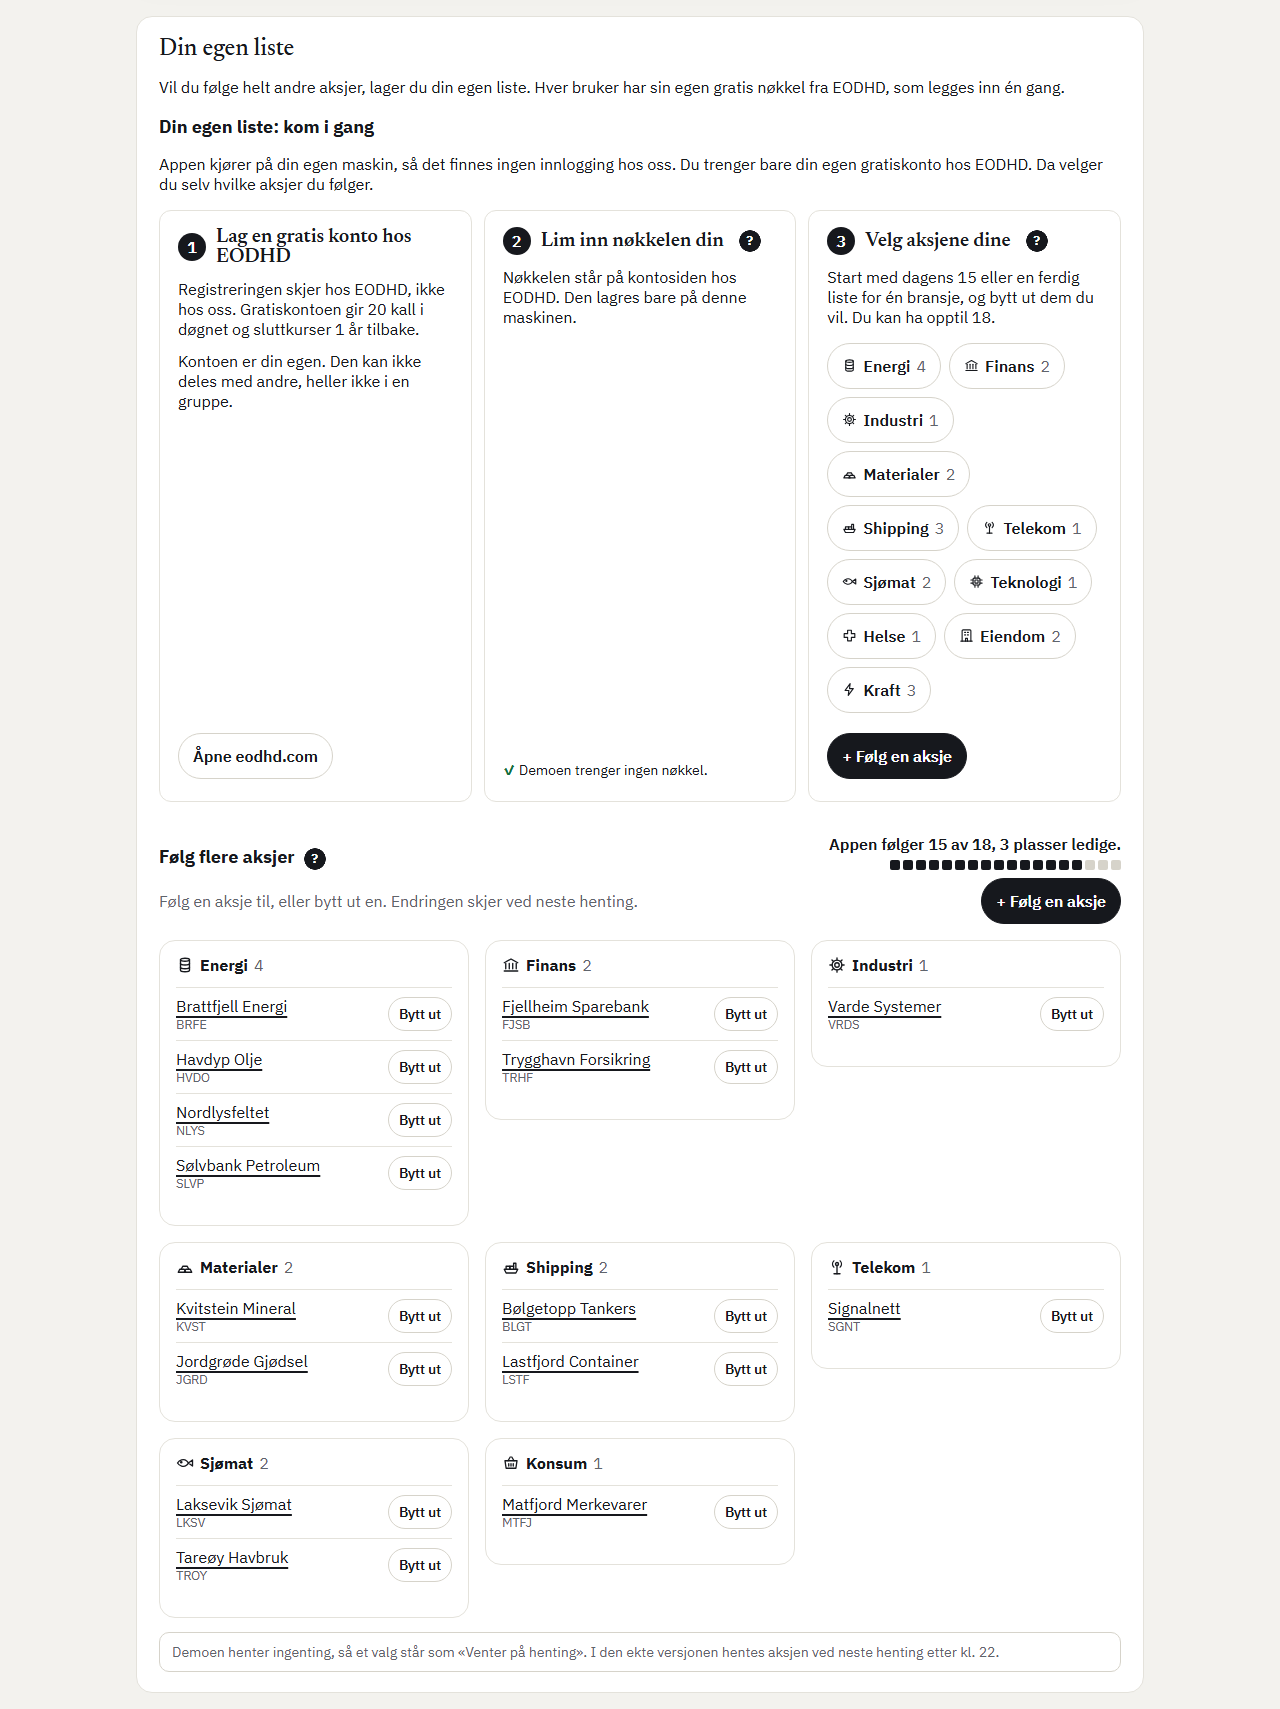
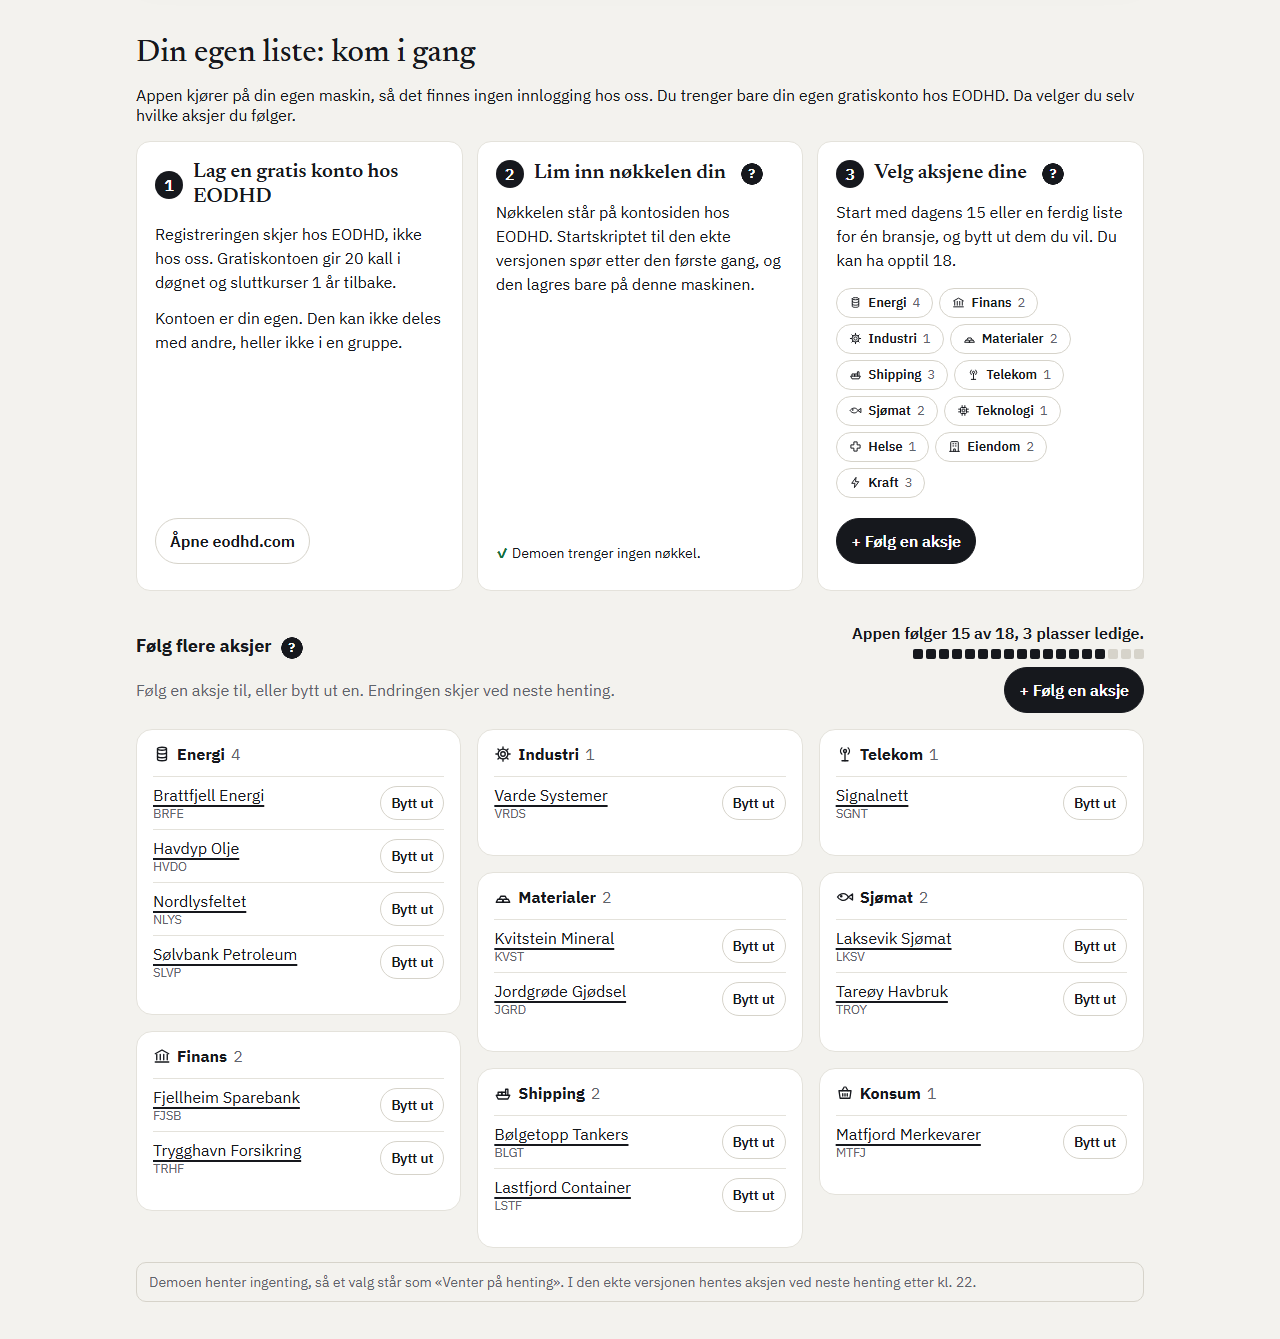
8.29: bildene av Min liste og avtrykkene tatt på nytt
min-liste-demo.png, din-egen-liste-demo.png (1709 -> 1339 px) og
notatene-min-liste-demo.png fra en demobase i en midlertidig mappe; de
andre er byte for byte de samme. Avtrykkene i test_docker.py er regnet
ut på nytt.

diff --git a/tests/test_docker.py b/tests/test_docker.py
@@ -1341,7 +1341,7 @@ HOEYDE_PAA_BILDET = 1864
 # og bildene med knappen er tatt paa nytt.
 # Gjennomgangen av «Følg en aksje» i 8.25: _ramme.html. Bildene er byte for byte de samme.
 # Story 8.26, tilleggene 5–20: avtrykkene er regnet ut paa nytt, og bildene er tatt paa nytt.
[2 lines of base64/hex data omitted]
 SLIK_TAS_BILDET = (
     "Oversikten er endret, så skjermbildet viser noe annet enn demoen. Ta "
     f"{SKJERMBILDET} på nytt etter «Bildet» i spesifikasjonen 3.3b: demobasen i en "
@@ -1794,7 +1794,7 @@ HOEYDE_PAA_AKSJESIDEN = 2258
 # Flettingen av main (3.6, del C) inn i 8.22 11.11: avtrykkene er regnet ut paa nytt.
 # Story 8.25 og flettingen av main (8.22 og 3.6) inn i 8.25: avtrykkene er regnet ut paa nytt.
 # Story 8.26, tilleggene 5–20: avtrykkene er regnet ut paa nytt, og bildene er tatt paa nytt.
[2 lines of base64/hex data omitted]
 SLIK_TAS_AKSJESIDEN = (
     "Aksjesiden er endret, så bildet av den viser noe annet enn demoen. Ta "
     f"{AKSJESIDEBILDET} på nytt med fremgangsmåten i spesifikasjonen 3.3b, mot /aksje/BRFE: "
@@ -1892,7 +1892,9 @@ DE_NYE_BILDENE = {
     # Story 8.26: 1454 -> 1474 (tabellen «Dine egne aksjer» med navnet og bransjen på to linjer).
     # Story 8.26 (tillegg 12): 1474 -> 1389, stegkortene som på tavla, med kallene bak «?».
     # Story 8.26 (tilleggene 5–20): 1389 -> 1709, «Følg flere aksjer» med kortene per bransje (tillegg 14 og 15).
-    "docs/appen/din-egen-liste-demo.png": ("/min-liste", 1280, 1709, FILENE_BAK_MIN_LISTE),
+    # Story 8.29 (svarene 13.11, tillegg 1): 1709 -> 1339, én overskrift, delen uten ramme og bransjekortene
+    # stablet i kolonner.
+    "docs/appen/din-egen-liste-demo.png": ("/min-liste", 1280, 1339, FILENE_BAK_MIN_LISTE),
     # Story 8.22: «Følg en aksje» i demoen med Kraft valgt, hele siden (1326 px), sist i knappen.
     # Flettingen av main (8.9, «Vis meg rundt») inn i 8.22: 1368. Bekreftelsen sier «Demo Børs» i
     # demoen (folg.html); bildet er byte for byte det samme.
@@ -2036,21 +2038,23 @@ DE_NYE_BILDENE = {
 # Story 10.10, svaret kl. 19:30: ki_dagen.py, ki_eksempel.py og teksten om dagen. Bildene er tatt paa nytt;
 # bare oversikten ved 390 px er ny, med samme hoeyde.
 # Story 8.26, tilleggene 5–20: avtrykkene er regnet ut paa nytt, og bildene er tatt paa nytt.
+# Story 8.29: _egne.html, eodhd_demo.html og stil.css. Bildene er tatt paa nytt; min-liste-demo.png,
+# din-egen-liste-demo.png (1339 px) og notatene-min-liste-demo.png er nye, de andre byte for byte de samme.
 AVTRYKK_BAK_DE_NYE_BILDENE = {
[28 lines of base64/hex data omitted]
 }
 SLIK_TAS_DE_NYE_BILDENE = (
     "Siden bak {bildet} er endret, så bildet viser noe annet enn demoen. Ta det på nytt som "
